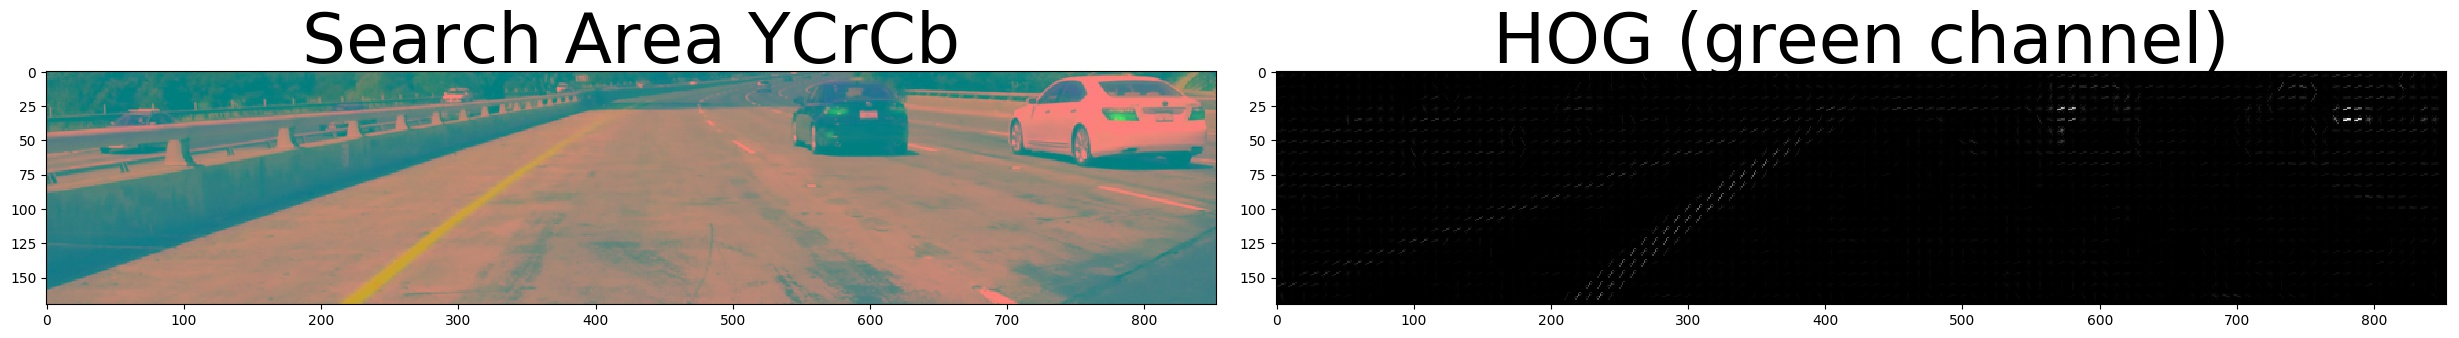
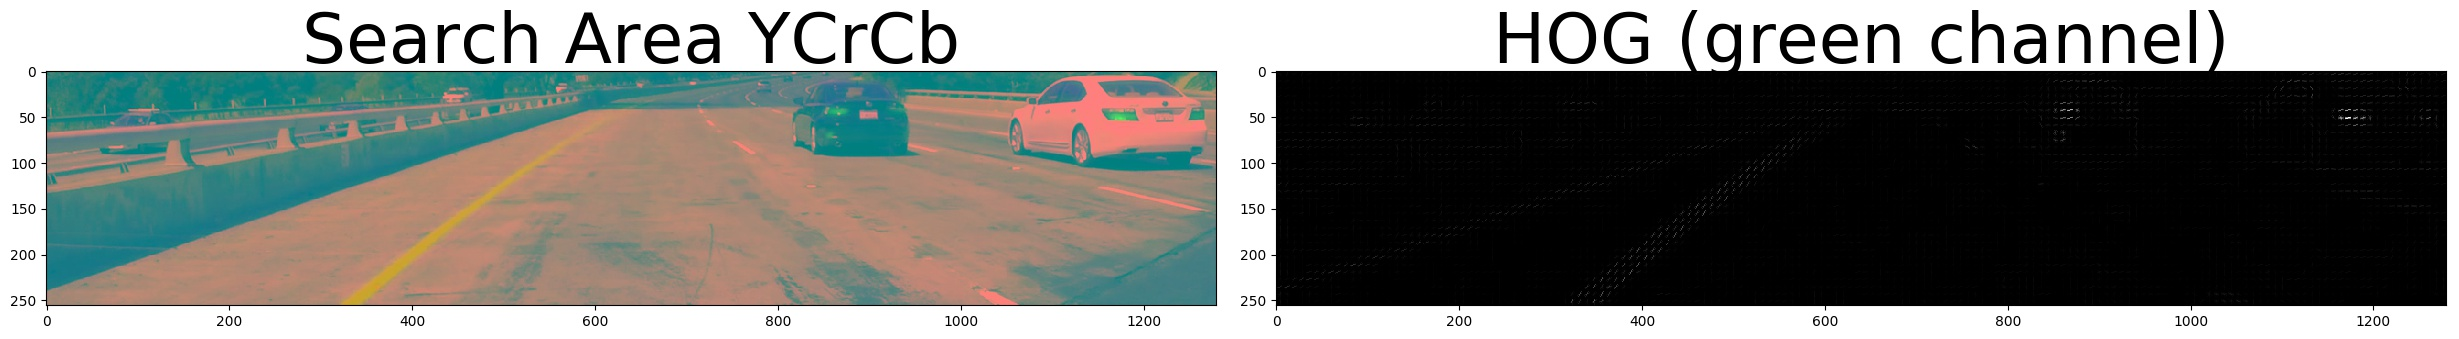
wip & fix: Fixed shapes

diff --git a/VehicleDetection/cars.py b/VehicleDetection/cars.py
@@ -66,7 +66,8 @@ class CarFinder(object):
         return on_windows
 
     def find_cars(self, image, ystart, ystop, scale, svc, X_scaler, orient, \
-        pix_per_cell, cell_per_block, spatial_size, hist_bins, hist_range, name=None):
+        pix_per_cell, cell_per_block, spatial_size, hist_bins, \
+        hist_range, window=64, name=None):
         """
             Finds cars into an image
         """
@@ -95,7 +96,7 @@ class CarFinder(object):
         nyblocks = (ch1.shape[0] // pix_per_cell) - cell_per_block + 1
         nfeat_per_block = orient * cell_per_block**2
         # 64 was the orginal sampling rate, with 8 cells and 8 pix per cell
-        window = 64
+        # window = 64
         nblocks_per_window = (window // pix_per_cell) - cell_per_block + 1
         cells_per_step = 2  # Instead of overlap, define how many cells to step
         nxsteps = (nxblocks - nblocks_per_window) // cells_per_step
@@ -158,7 +159,7 @@ class CarFinder(object):
         heat = cutils.apply_threshold(heat, 1)
         heatmap = np.clip(heat, 0, 255)
         if samples:
-            cutils.write_two_img([img, heatmap], ['Original', 'Heatmap'], 'heatmap_' + name, cmap2='heat')
+            cutils.write_two_img([img, heatmap], ['Original', 'Heatmap'], 'heatmap_' + name, cmap2='hot')
         labels = label(heatmap)
         if samples:
             cutils.write_two_img([img, labels], ['Original', 'Labels'], 'labels_' + name, cmap2='gray')

diff --git a/P5.py b/P5.py
@@ -15,7 +15,7 @@ import VehicleDetection.utils as cutils
 #  GLOBAL VARIABLES!
 YSTART = 400
 YSTOP = 656
-SCALE = 1.5
+SCALE = 1
 COLOR_SPACE = 'RGB'
 SPATIAL_SIZE = (32, 32)
 ORIENT = 9
@@ -23,7 +23,8 @@ PIX_PER_CELL = 8
 CELL_PER_BLOCK = 2
 HIST_BINS = 32
 HIST_RANGE = (0, 256)
-HOG_CHANNEL = 0
+HOG_CHANNEL = 'ALL'
+WINDOW = 64
 
 class Processor(object):
     """
@@ -59,7 +60,8 @@ class Processor(object):
             Fins the cars.
         """
         return self.finder.find_cars(img, YSTART, YSTOP, SCALE, self.svc, self.X_scaler, \
-            ORIENT, PIX_PER_CELL, CELL_PER_BLOCK, SPATIAL_SIZE, HIST_BINS, HIST_RANGE, name)
+            ORIENT, PIX_PER_CELL, CELL_PER_BLOCK, SPATIAL_SIZE, HIST_BINS, \
+            HIST_RANGE, WINDOW, name)
 
     def process(self, img, name=None):
         """

diff --git a/VehicleDetection/features.py b/VehicleDetection/features.py
@@ -84,7 +84,7 @@ class FeatureExtractor(object):
 
     def single_img_features(self, img, color_space='RGB', spatial_size=(32, 32), hist_bins=32, \
         hist_range=(0, 256), orient=9, pix_per_cell=8, cell_per_block=2, hog_channel=0, \
-        spatial_feat=True, hist_feat=True, hog_feat=True, name=None):
+        spatial_feat=True, hist_feat=True, hog_feat=True):
         """
             Extracts features from a single image window.
         """

diff --git a/VehicleDetection/train.py b/VehicleDetection/train.py
@@ -32,6 +32,7 @@ class SVCTrainer(object):
             Fits a StandardScaler.
         """
         X = np.vstack((cars_feats, notcars_feats)).astype(np.float64)
+        print('X features shape', X.shape)
         if os.path.isfile('./xscaler.pkl'):
             X_scaler = cutils.load_scaler()
         else:
